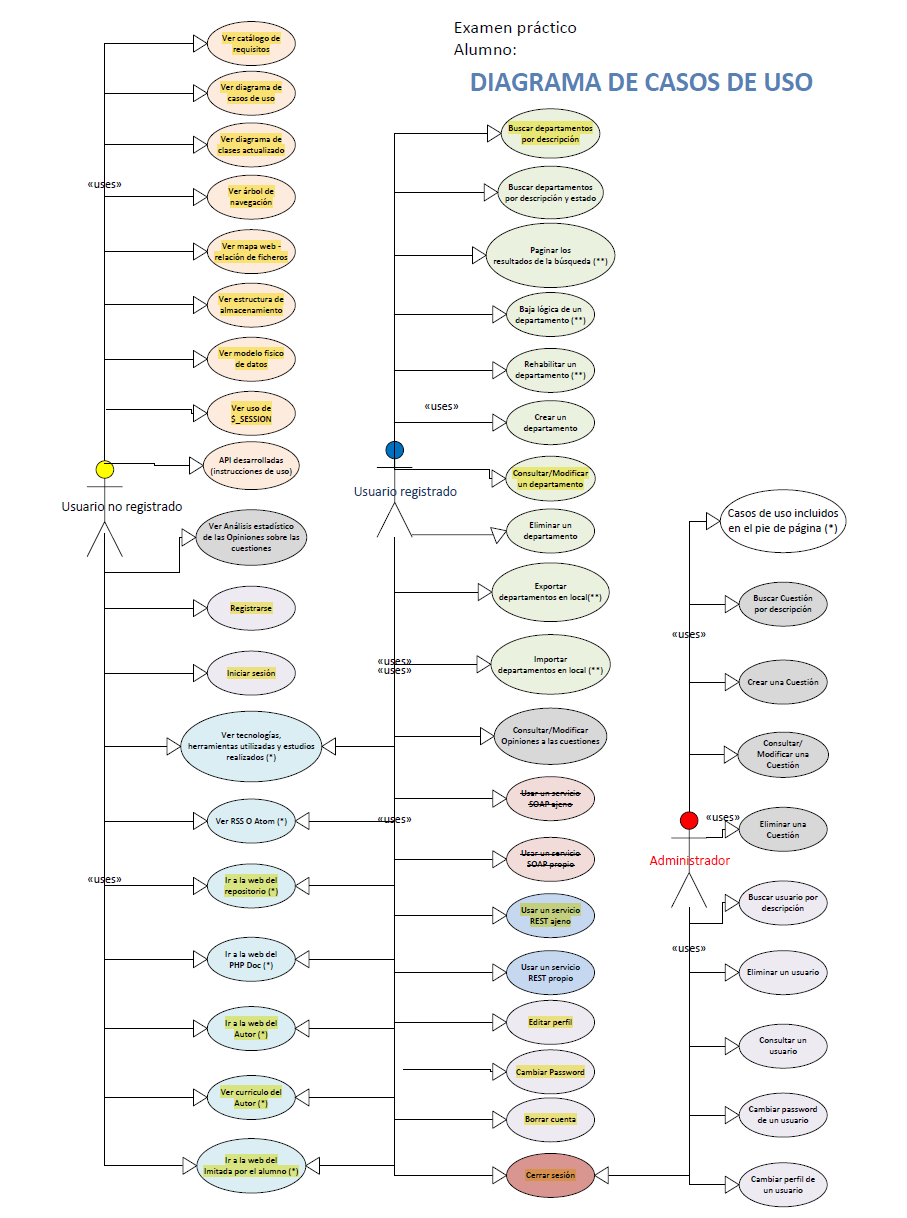
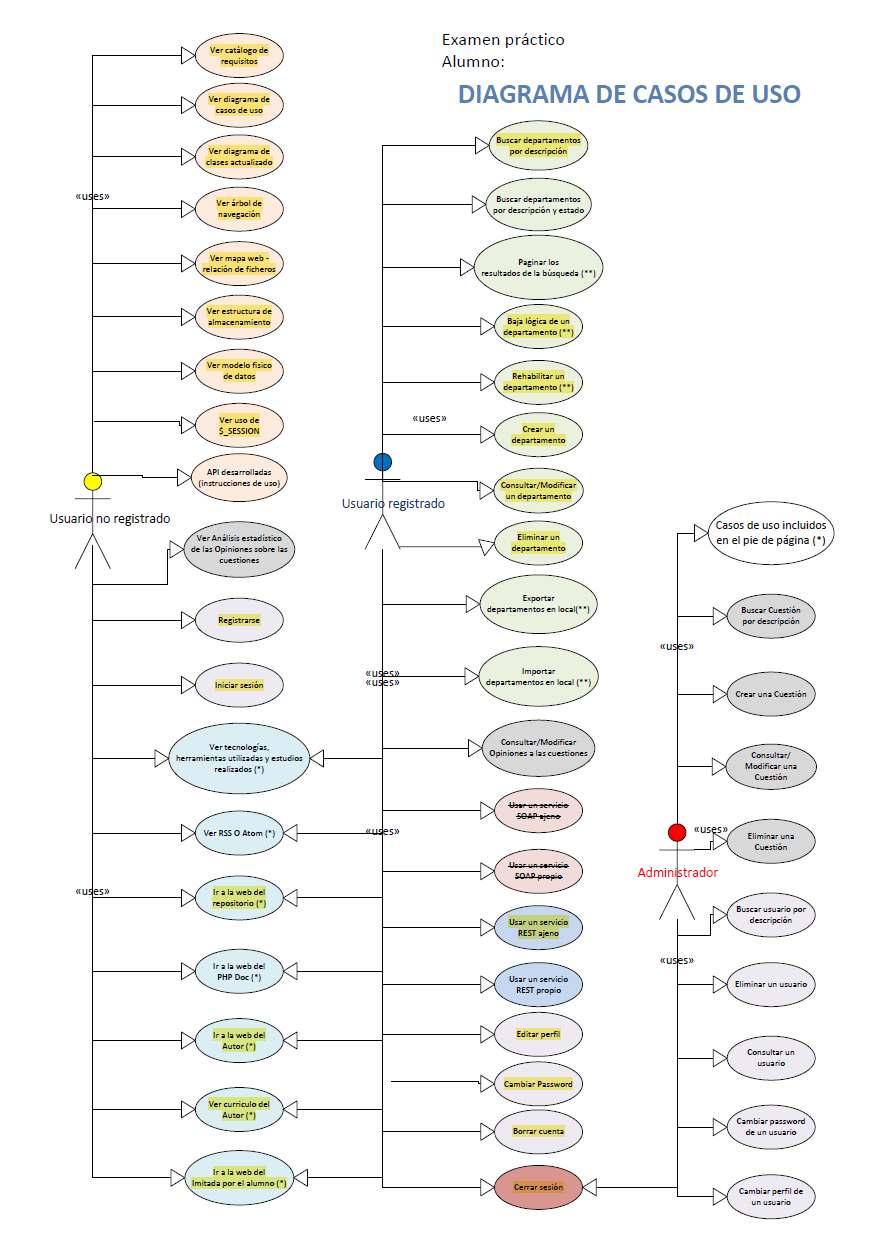
add: añadir alta departamento y sustituir fotos de inicio público actualizadas

diff --git a/webroot/css/estilosLogin.css b/webroot/css/estilosLogin.css
@@ -1602,3 +1602,22 @@ body.view-error, body.view-wip {
     font-weight: 600;
     font-size: 0.9rem;
 }
+
+/* =========================================
+   VISTA ALTA DEPARTAMENTO
+   ========================================= */
+
+.encabezado-centrado {
+    text-align: center;
+    margin-bottom: 20px;
+}
+
+.icono-alta {
+    font-size: 2rem;
+    color: #107c10;
+    margin-bottom: 10px;
+}
+
+.input-uppercase {
+    text-transform: uppercase;
+}

diff --git a/view/vAltaDepartamento.php b/view/vAltaDepartamento.php
@@ -1,0 +1,68 @@
+<?php
+/**
+ * @author: Enrique Nieto Lorenzo
+ * @since: 03/02/2026
+ * @description: Vista Alta Departamento.
+ */
+?>
+<main>
+    <div class="card-central card-media">
+        
+        <div class="seccion-titulo encabezado-centrado">
+            <i class="fa-solid fa-building-circle-check icono-alta"></i>
+            <h2 class="titulo-login">Nuevo Departamento</h2>
+            <p class="texto-descripcion">Introduce los datos para registrar el departamento.</p>
+        </div>
+
+        <form action="index.php" method="post">
+            
+            <div class="grupo-input">
+                <label for="codDepartamento" class="label-form">Código</label>
+                <div class="input-icon-wrapper">
+                    <i class="fa-solid fa-barcode icon-input"></i>
+                    <input type="text" name="codDepartamento" id="codDepartamento" 
+                           class="input-microsoft input-uppercase" placeholder="Ej: INF (3 Letras)"
+                           value="<?php echo $_REQUEST['codDepartamento'] ?? ''; ?>"
+                           maxlength="3">
+                </div>
+                <span class="error-msg"><?php echo $aErrores['codDepartamento']; ?></span>
+            </div>
+
+            <div class="grupo-input">
+                <label for="descDepartamento" class="label-form">Descripción</label>
+                <div class="input-icon-wrapper">
+                    <i class="fa-regular fa-file-lines icon-input"></i>
+                    <input type="text" name="descDepartamento" id="descDepartamento" 
+                           class="input-microsoft" placeholder="Nombre del departamento"
+                           value="<?php echo $_REQUEST['descDepartamento'] ?? ''; ?>">
+                </div>
+                <span class="error-msg"><?php echo $aErrores['descDepartamento']; ?></span>
+            </div>
+
+            <div class="grupo-input">
+                <label for="volumenDeNegocio" class="label-form">Volumen de Negocio</label>
+                <div class="input-icon-wrapper">
+                    <i class="fa-solid fa-euro-sign icon-input"></i>
+                    <input type="text" name="volumenDeNegocio" id="volumenDeNegocio" 
+                           class="input-microsoft" placeholder="0.00"
+                           value="<?php echo $_REQUEST['volumenDeNegocio'] ?? ''; ?>">
+                </div>
+                <span class="error-msg"><?php echo $aErrores['volumenDeNegocio']; ?></span>
+            </div>
+
+            <hr class="separador-horizontal">
+
+            <div class="grupo-botones grupo-botones-vertical">
+                <button type="submit" name="crear" class="btn-primary btn-verde btn-full">
+                    Aceptar
+                </button>
+                
+                <button type="submit" name="cancelar" class="btn-primary btn-gris btn-full">
+                    Cancelar
+                </button>
+            </div>
+
+        </form>
+    </div>
+</main>
+

diff --git a/controller/cAltaDepartamento.php b/controller/cAltaDepartamento.php
@@ -1,0 +1,83 @@
+<?php
+/**
+ * @author: Enrique Nieto Lorenzo
+ * @since: 03/02/2026
+ * @description: Controlador para añadir un nuevo departamento.
+ */
+
+// Control de botón Volver
+if (isset($_REQUEST['volver'])) {
+    $_SESSION['paginaEnCurso'] = 'inicioPrivado';
+    header('Location: index.php');
+    exit;
+}
+
+// BOTÓN CANCELAR
+if (isset($_REQUEST['cancelar'])) {
+    $_SESSION['paginaEnCurso'] = 'mtoDepartamentos';
+    header('Location: index.php');
+    exit;
+}
+
+// Inicializamos las variables de Departamento
+$entradaOK = true;
+$aErrores = [
+    'codDepartamento' => null,
+    'descDepartamento' => null,
+    'volumenDeNegocio' => null
+];
+
+// procesamos el formulario si usuario da a aceptar
+if (isset($_REQUEST['crear'])) {
+
+    // Validar Código 3 letras obligatorias
+    $aErrores['codDepartamento'] = validacionFormularios::comprobarAlfabetico($_REQUEST['codDepartamento'], 3, 3, 1);
+    
+    // Si el formato es correcto, comprobamos que NO exista en la BBDD
+    if ($aErrores['codDepartamento'] == null) {
+        // Convertimos a mayúsculas para asegurar consistencia
+        $_REQUEST['codDepartamento'] = strtoupper($_REQUEST['codDepartamento']);
+        
+        if (DepartamentoPDO::validaCodNoExiste($_REQUEST['codDepartamento'])) {
+            $aErrores['codDepartamento'] = "El código ya existe.";
+            $entradaOK = false;
+        }
+    } else {
+        $entradaOK = false;
+    }
+
+    // Validar Descripción Alfanumérico, mín 4, máx 255
+    $aErrores['descDepartamento'] = validacionFormularios::comprobarAlfanumerico($_REQUEST['descDepartamento'], 255, 4, 1);
+    if ($aErrores['descDepartamento'] != null) {
+        $entradaOK = false;
+    }
+
+    // Validar Volumen de Negocio
+    // Reemplazamos coma por punto antes de validar para permitir ambos formatos
+    $volumenFiltrado = str_replace(',', '.', $_REQUEST['volumenDeNegocio']);
+    $aErrores['volumenDeNegocio'] = validacionFormularios::comprobarFloat($volumenFiltrado, 1000000000, 0, 1);
+    
+    if ($aErrores['volumenDeNegocio'] != null) {
+        $entradaOK = false;
+    }
+
+    // Si toda la validación es ok creamos el departamento nuevo
+    if ($entradaOK) {
+        $oDepartamentoNuevo = DepartamentoPDO::altaDepartamento(
+            $_REQUEST['codDepartamento'],
+            $_REQUEST['descDepartamento'],
+            (float)$volumenFiltrado
+        );
+
+        if ($oDepartamentoNuevo) {
+            // Volvemos al mantenimiento tras la creación
+            $_SESSION['paginaEnCurso'] = 'mtoDepartamentos';
+            header('Location: index.php');
+            exit;
+        } else {
+            // Error genérico de BBDD
+            $aErrores['codDepartamento'] = "Error al insertar el departamento.";
+        }
+    }
+}
+?>

diff --git a/config/confAPP.php b/config/confAPP.php
@@ -42,6 +42,7 @@ $controller = [
     'borrarCuenta'          => 'controller/cBorrarCuenta.php',
     'rest'                  => 'controller/cRest.php',
     'mtoDepartamentos'      => 'controller/cMtoDepartamentos.php',
+    'altaDepartamento'      => 'controller/cAltaDepartamento.php',
     'modificarDepartamento' => 'controller/cConsultarModificarDepartamento.php',
     'consultarDepartamento' => 'controller/cConsultarModificarDepartamento.php',
     'eliminarDepartamento'  => 'controller/cEliminarDepartamento.php'
@@ -63,9 +64,10 @@ $view = [
     'borrarCuenta'          => 'view/vBorrarCuenta.php',
     'rest'                  => 'view/vRest.php',
     'mtoDepartamentos'      => 'view/vMtoDepartamentos.php',
+    'altaDepartamento'      => 'view/vAltaDepartamento.php',
     'modificarDepartamento' => 'view/vConsultarModificarDepartamento.php',
     'consultarDepartamento' => 'view/vConsultarModificarDepartamento.php',
-    'eliminarDepartamento' => 'view/vEliminarDepartamento.php'
+    'eliminarDepartamento'  => 'view/vEliminarDepartamento.php'
 ];
 
 // ARRAY DE TÍTULOS DEL HEADER
@@ -83,9 +85,10 @@ $titulos = [
     'wip'                   => 'En Construcción',
     'error'                 => 'Error de Aplicación',
     'mtoDepartamentos'      => 'Mantenimiento de Departamentos',
+    'altaDepartamento'      => 'Añadir Departamento',
     'modificarDepartamento' => 'Editar Departamento',
     'consultarDepartamento' => 'Consultar Departamento',
-    'eliminarDepartamento' => 'Eliminar Departamento'
+    'eliminarDepartamento'  => 'Eliminar Departamento'
 ];
 
 //ARRAY PARA DEFINIR VISTAS PÚBLICAS

diff --git a/model/DepartamentoPDO.php b/model/DepartamentoPDO.php
@@ -64,6 +64,33 @@ final class DepartamentoPDO {
         }
         return null;
     }
+    
+    /**
+     * Da de alta un nuevo departamento en la base de datos.
+     * * Inserta un registro en la tabla T02_Departamento con la fecha de creación actual (NOW()) y la fecha de baja a null.
+     * @param string $codDepartamento Código del departamento (PK, 3 letras mayúsculas).
+     * @param string $descDepartamento Descripción o nombre del departamento.
+     * @param float $volumenDeNegocio Volumen de negocio anual (permitiendo decimales).
+     * @return Departamento|null Devuelve el objeto Departamento si se crea con éxito, o null si falla la inserción.
+     */
+    public static function altaDepartamento($codDepartamento, $descDepartamento, $volumenDeNegocio){
+        
+        $sql = <<<SQL
+            INSERT INTO T02_Departamento (T02_CodDepartamento, T02_DescDepartamento, T02_FechaCreacionDepartamento, T02_VolumenDeNegocio, T02_FechaBajaDepartamento) VALUES (:cod, :desc, NOW(), :vol, NULL)";
+        SQL;
+        
+        $consulta = DBPDO::ejecutarConsulta($sql, [
+            ':cod' => $codDepartamento,
+            ':desc' => $descDepartamento,
+            ':vol' => $volumenDeNegocio
+        ]);
+
+        if ($consulta) {
+            // Devolvemos el objeto creado para confirmar
+            return self::buscaDepartamentoPorCod($codDepartamento);
+        }
+        return null;
+    }
 
     /**
      * Modifica la descripción y el volumen de negocio de un departamento.

diff --git a/controller/cMtoDepartamentos.php b/controller/cMtoDepartamentos.php
@@ -56,6 +56,14 @@ if (isset($_REQUEST['borrar'])) {
     exit;
 }
 
+if (isset($_REQUEST['anadir'])) {
+    // Guardamos el código
+    $_SESSION['codDepartamentoEnCurso'] = $_REQUEST['codDepartamento'];
+    $_SESSION['paginaEnCurso'] = 'altaDepartamento';
+    header('Location: index.php');
+    exit;
+}
+
 // Definimos el valor por defecto recuperando de la sesión (si existe) o cadena vacía
 $descripcionBuscada = $_SESSION['descripcionBuscadaEnCurso'] ?? "";
 
